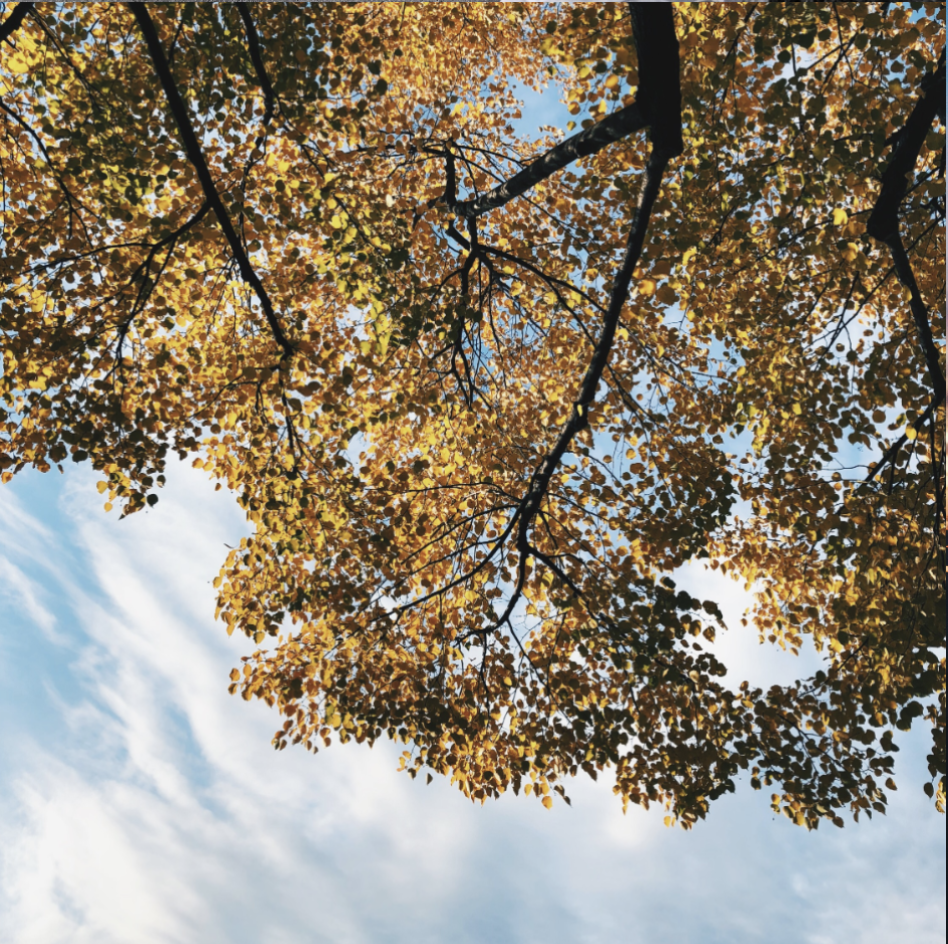
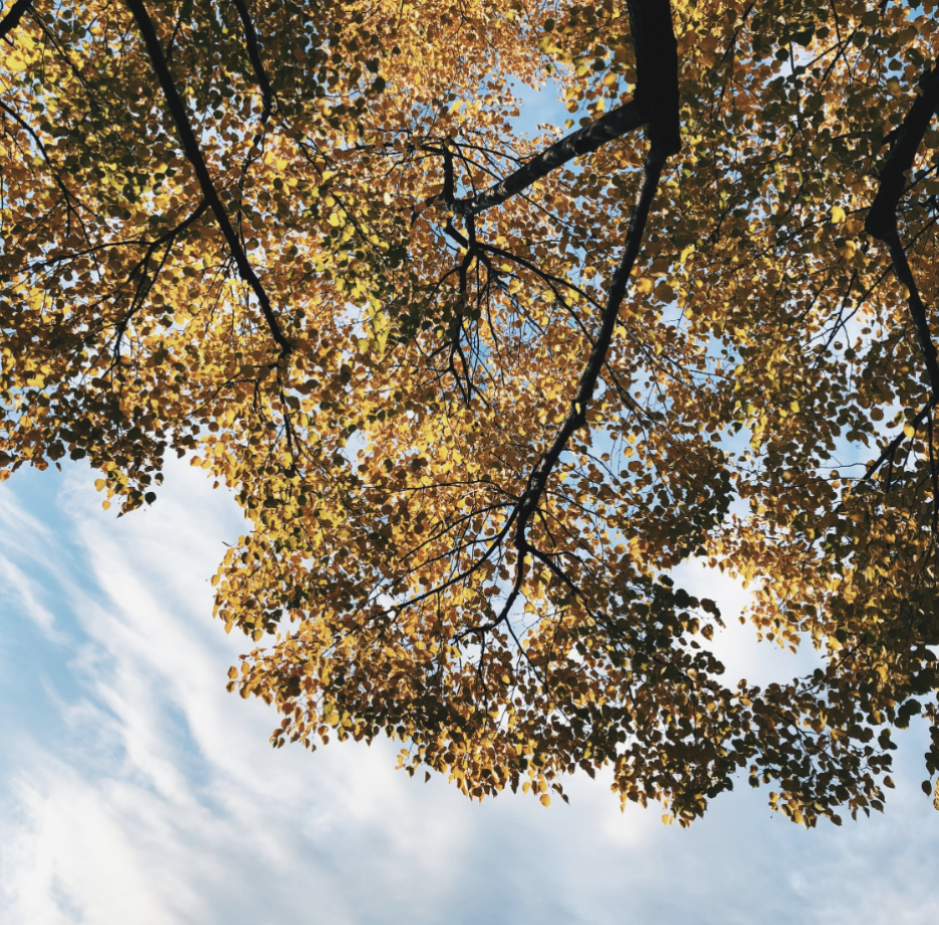
Minor Updates

diff --git a/index.html b/index.html
@@ -41,13 +41,13 @@
               <img src="./img/bulter.jpg" alt="Bulter" style="width:100%" class="picture">
               <img src="./img/lines.jpg" alt="Lines" style="width:100%" class="picture">
               <img src="./img/red.jpg" alt="Red" style="width:100%" class="picture">
-              <img src="./img/blue-shot1.png" alt="Blue-Shot1" style="width:100%" class="picture">
+              <img src="./img/blue-shot3.jpg" alt="Blue-Shot1" style="width:100%" class="picture">
             </div>
             <div class="column">
               <img src="./img/flower.JPG" alt="Flower" style="width:100%" class="picture">
               <img src="./img/building.JPG" alt="Building" style="width:100%" class="picture">
               <img src="./img/runway.jpg" alt="Runway" style="width:100%" class="picture">
-              <img src="./img/blue-shot2.jpeg" alt="Blue-Shot2" style="width:100%" class="picture">
+              <img src="./img/rising2.jpeg" alt="Blue-Shot2" style="width:100%" class="picture">
               <img src="./img/fall.jpg" alt="Fall" style="width:100%" class="picture">
               <img src="./img/despair.jpg" alt="Despair" style="width:100%" class="picture">
               <img src="./img/tree.png" alt="Treet" style="width:100%" class="picture">

diff --git a/css/style.css b/css/style.css
@@ -83,7 +83,7 @@ a{
 
 .picture:hover{
   transform: scale(.9);
-  transition: transform .2s;
+  transition: transform .5s;
 }
 
 /* Style the navbar */
